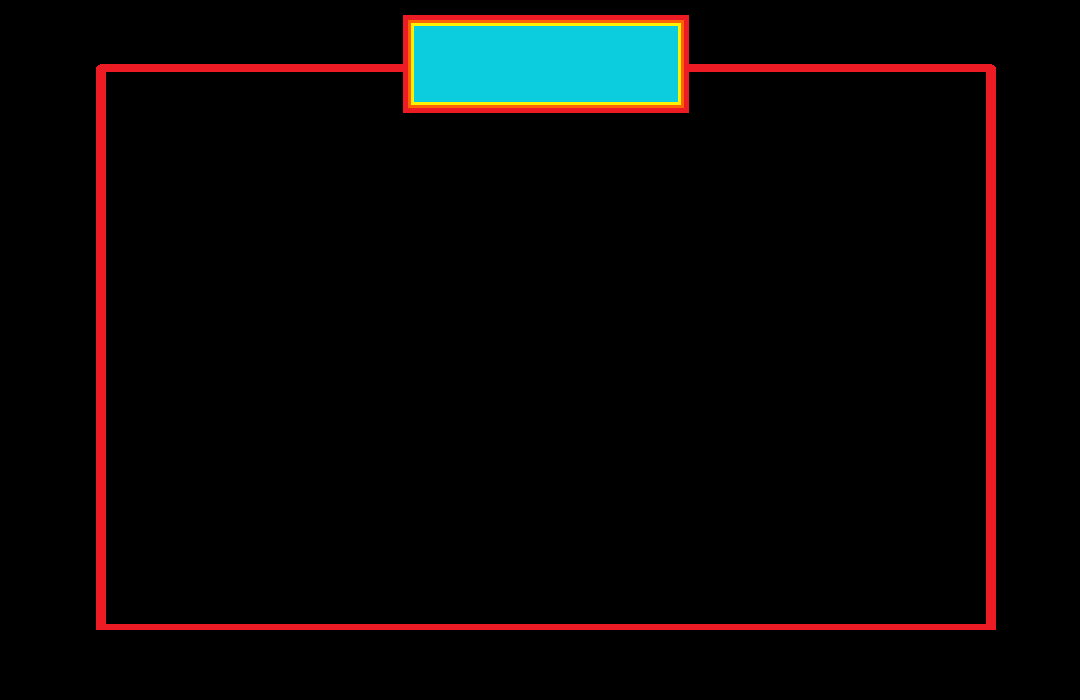
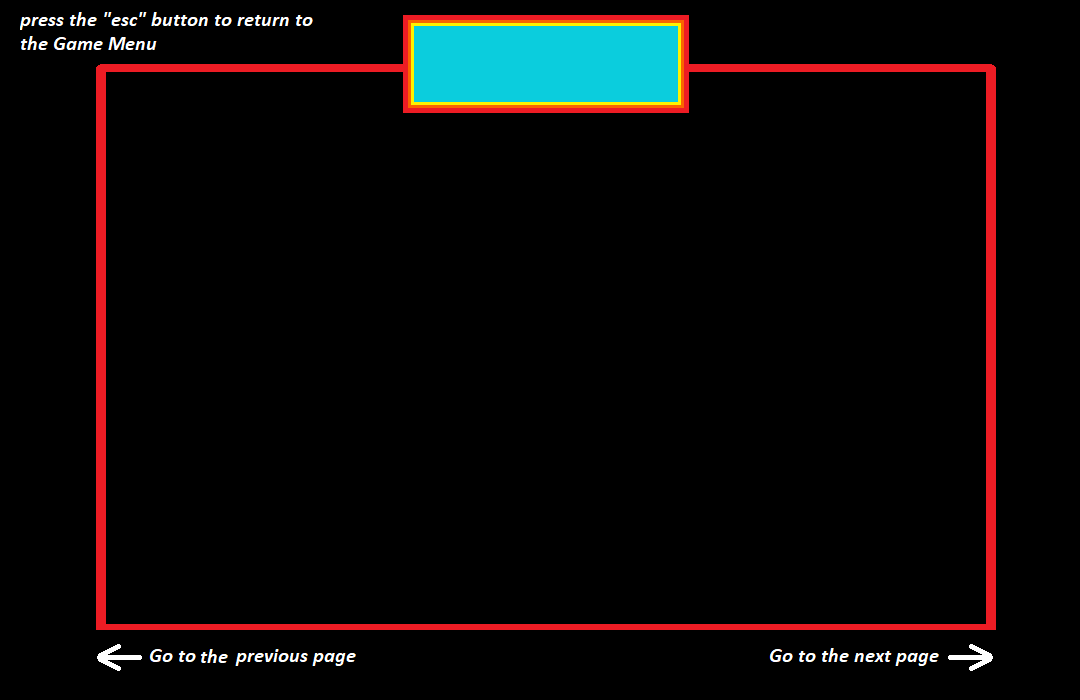
creation of the Menu_sequence class

Changed region(s): [[0.0, 0.0, 0.275, 0.09], [0.0917, 0.93, 0.3361, 0.96], [0.7028, 0.93, 0.9167, 0.96]]

diff --git a/classes_menu.py b/classes_menu.py
@@ -101,14 +101,51 @@ class User:
         file.write(data)
         file.close()
 
+
 class Menu_image_sequence:
-    def __init__(self, screen, diretorio, num_paginas, func_link, name):
+    def __init__(self, screen, pasta, num_paginas, func_link, name):
         self.screen = screen
         self.name = name
         self.background_image = pygame.image.load("images/menu/interfaces/Main/sequence.png")
-        self.images_list = [pygame.image.load(diretorio+f"{i}.png") for i in range(num_paginas)]
-        self.num_paginas = num_paginas
+        self.images_list = [pygame.image.load(f"images/menu/interfaces/sequences/{pasta}/{i}.png") for i in range(num_paginas)]
+        self.num_pages = num_paginas
+        self.current_page = 0
         self.origin_link = func_link
+
+    def manage_buttons(self, keys):
+        if keys[pygame.K_RIGHT]:
+            self.current_page += 1
+        elif keys[pygame.K_LEFT]:
+            self.current_page -= 1
+        elif keys[pygame.K_KP_ENTER] or keys[pygame.K_RETURN]:
+            if self.current_page == self.num_pages:
+                return self.origin_link
+        elif keys[pygame.K_ESCAPE]:
+            return self.origin_link
+        if self.current_page > self.num_pages:
+            self.current_page = self.num_pages
+        if self.current_page < 0:
+            self.current_page = 0
+
+    def refresh(self):
+        self.screen.blit(self.background_image, (0, 0))
+        self.screen.blit(self.images_list[self.current_page], (100, 100))
+        pygame.display.update()
+
+    def display_menu(self):
+        clock = pygame.time.Clock()
+        keepGoing = True
+        while keepGoing:
+            clock.tick(30)
+            for event in pygame.event.get():
+                if event.type == pygame.QUIT:
+                    return False
+                if event.type == pygame.KEYDOWN:
+                    efeito = self.manage_buttons(pygame.key.get_pressed())
+                    if efeito is not None:
+                        return efeito
+            self.refresh()
+
 
 class Menu:
     def __init__(self, buttons, diretorio, superficie, user=None):
